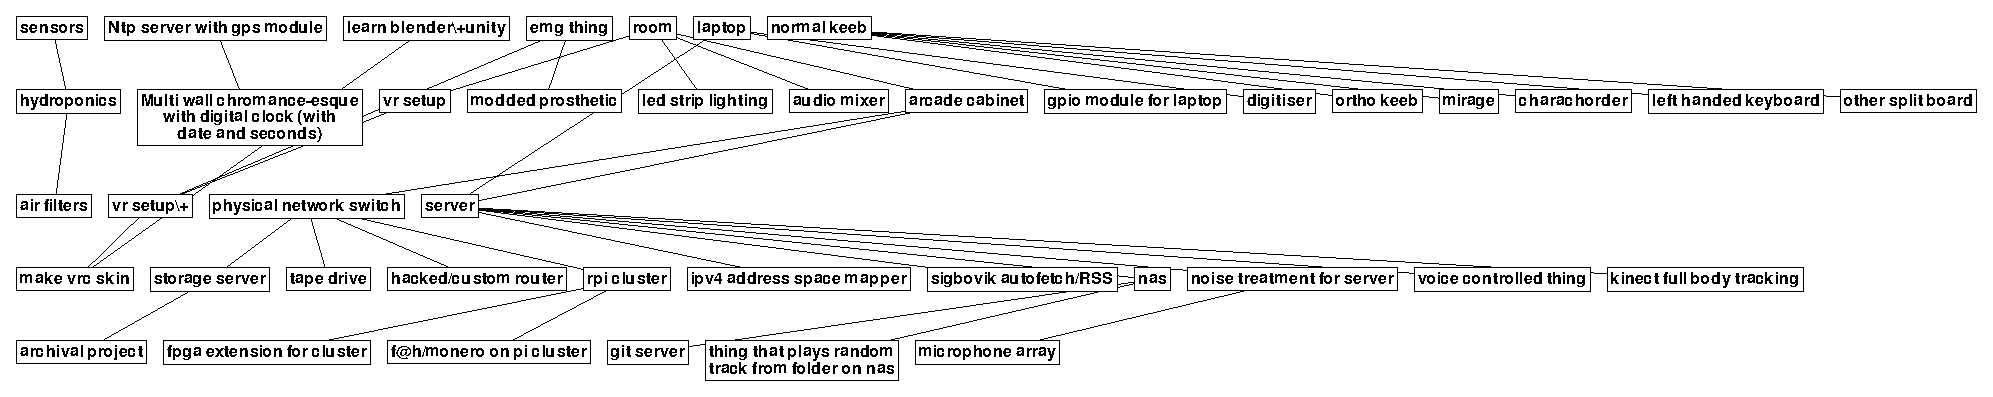
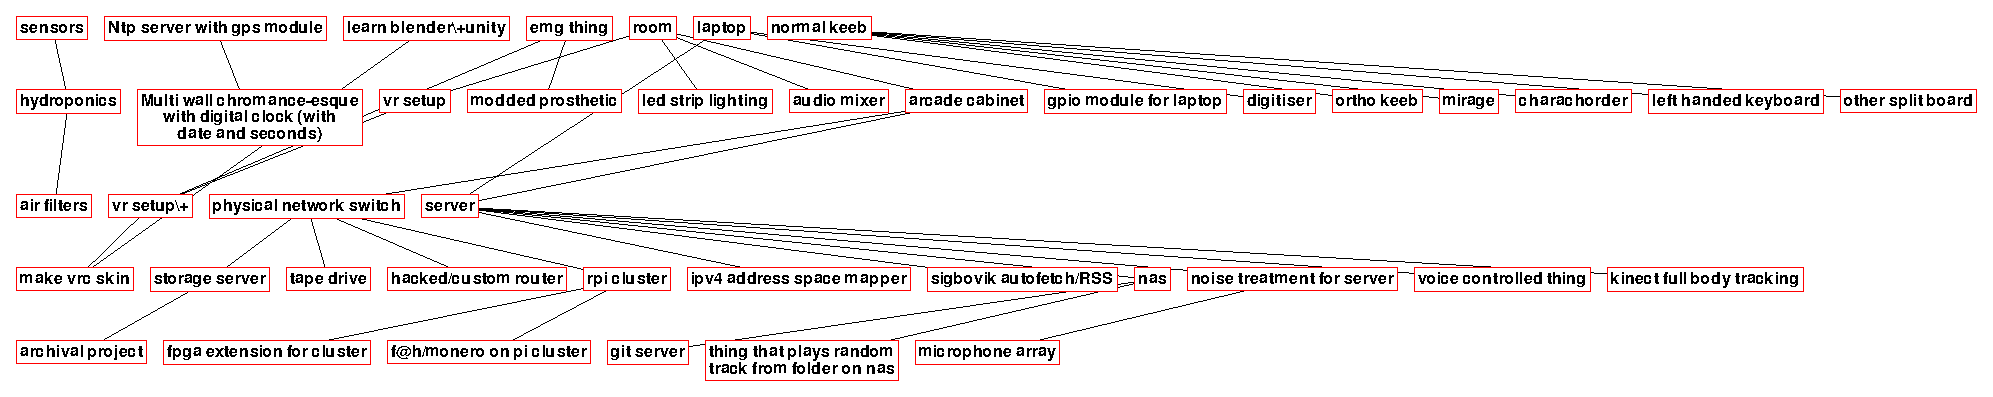
Split rendering process into 2 stages (per-node and per-graph)

diff --git a/core/Node.py b/core/Node.py
@@ -9,37 +9,50 @@ class Node:
     """Stores all the information for a single node; name, description, status,
     dependencies, dependants, position, size, etc."""
 
-    def __init__(self, name: str, description: str, status: str, font: pygame.font.Font):
+    name: str
+    description: str
+    status: str
+    dependencies: set[Node]
+    dependants: set[Node]
+    text_surf: pygame.Surface
+    position_x: int
+    position_y: int
+    width: int
+    height: int
+
+    def __init__(self, name: str, description: str, status: str):
         # Strings
-        self.name = name  # The project's name, shown in the render
-        self.description = description  # A brief description of this project
-        self.status = status  # Current status of this project
+        self.name = self.unescape(name)
+        self.description = self.unescape(description)
+        self.status = self.unescape(status)
         # Links
-        self.dependencies = set()  # Nodes which 'self' has as dependencies
         # TODO: Do we really need to store dependant nodes?
+        self.dependencies = set()  # Nodes which 'self' has as dependencies
         self.dependants = set()  # Nodes which have 'self' as a dependency
-        # Pre-render text surface (Surface size used as node size)
+
+    @staticmethod
+    def unescape(s: str) -> str:
+        # Source: https://thewebdev.info/2022/04/14/how-to-un-escape-a-backslash-escaped-string-with-python/
+        return s.encode('raw_unicode_escape').decode('unicode_escape')
+
+    def pre_render(self, font: pygame.font.Font):
         chars_per_line = 28
-        self.text_surf = DrawingUtils.draw_text(name, chars_per_line, font, None, (0, 0))
+        self.text_surf = DrawingUtils.draw_text(self.name, chars_per_line, font, None, (0, 0))
         width, height = self.text_surf.get_size()
         oversize = 8
         self.width = width + oversize
         self.height = height + oversize
-        self.position_x = 0
-        self.position_y = 0
 
-    def draw_node(self, surface: pygame.Surface, font: pygame.font.Font, node_thickness: int):
+    def draw_node(self, surface: pygame.Surface, node_thickness: int) -> None:
         """Draws the node to a PyGame surface object"""
 
-        # Find bounding box
+        # Draw node outline
+        node_colour = (255, 0, 0)
         pos_x = self.position_x - self.width / 2
         pos_y = self.position_y - self.height / 2
         bounding_box = pygame.Rect(pos_x, pos_y, self.width, self.height)
-
-        # Draw node outline
-        ring_color = (0, 0, 0)
         pygame.draw.rect(surface, (255, 255, 255), bounding_box, 0)
-        pygame.draw.rect(surface, ring_color, bounding_box, node_thickness)
+        pygame.draw.rect(surface, node_colour, bounding_box, node_thickness)
 
         # Draw text
         width, height = self.text_surf.get_size()
@@ -52,6 +65,7 @@ class Node:
         return all((dep.status == 'completed') for dep in self.dependencies)
 
     def __repr__(self):
+        # TODO: Do we really need __repr__?
         pos_data = "position_x={}, position_y={}, width={}, height={}".format(
                 self.position_x, self.position_y, self.width, self.height)
         return "Node.Node(name={}, description={}, status={}, dependencies={}, {})".format(

diff --git a/core/Graph.py b/core/Graph.py
@@ -2,16 +2,17 @@ from __future__ import annotations
 from typing import TextIO
 
 from core.Node import Node
+from core.Colours import parse_colour
 
 import json
 import pygame
 
 
 class Graph:
-    """Stores a set of nodes, and a block of raw metadata (if loaded from a JSON file)"""
+    """Stores a set of nodes, and colour information (if loaded from a JSON file)"""
 
     nodes: list[Node] = []
-    metadata: dict = {}
+    colours: dict[str, tuple[float, float, float]] = {}
 
     def __init__(self, file: str | TextIO, font: pygame.font.Font):
         if file:
@@ -24,44 +25,10 @@ class Graph:
                 data = json.load(open(file, 'r', encoding='utf-8'))
 
             self.init_nodes(data['nodes'], font)
-            self.colours = self.parse_colours(data["colours"])
-            self.metadata = data.copy()
-            self.metadata.pop('nodes')
-
-    def parse_colours(self, colours: dict) -> dict:
-
-        out = {}
-        for key, value in colours.items():
-            out[key] = self.parse_colour(value)
-        return out
-
-    def parse_colour(self, colour: str) -> tuple:
-        if colour in pygame.colordict.THECOLORS:
-            return pygame.colordict.THECOLORS[colour]
-        elif colour.lower().startswith("rgb("):
-            return self.from_rgb(colour)
-        elif colour.lower().startswith("hsv("):
-            return self.from_hsv(colour)
-        elif len(colour) in (6, 7):
-            return self.from_hex(colour)
-
-    @staticmethod
-    def from_rgb(colour: str) -> tuple:
-        as_str = colour[4:-1].split(",")
-        return tuple(int(i) for i in as_str)
-
-    @staticmethod
-    def from_hsv(colour: str) -> tuple:
-        as_str = colour[4:-1].split(",")
-        temp = pygame.Color((0, 0, 0))
-        temp.hsva = [int(i) for i in as_str]
-        return temp[0:3]
-
-    @staticmethod
-    def from_hex(colour: str) -> tuple:
-        if len(colour) == 7:
-            colour = colour[1:]
-        return int(colour[0:2], 16), int(colour[2:4], 16), int(colour[4:6], 16)
+            self.colours = {
+                key: parse_colour(value)
+                for key, value in data.get('colours', []).items()
+            }
 
     def init_nodes(self, data: dict, font: pygame.font.Font) -> None:
         """Set up node and connection data from a dict (loaded from project-list JSON file)"""
@@ -70,7 +37,8 @@ class Graph:
         for node_name, node in data.items():
             description = node.get('description', '')
             status = node.get('status', '')
-            n = Node(name=node_name, description=description, status=status, font=font)
+            n = Node(node_name, description, status)
+            n.pre_render(font)
             self.add_node(n)
 
         # Check node dependencies

diff --git a/core/Colours.py b/core/Colours.py
@@ -1,0 +1,34 @@
+import pygame
+
+
+# TODO: Fix type-checking for colours
+Colour = tuple[float, float, float]
+
+
+def from_rgb(colour: str) -> tuple:
+    as_str = colour[4:-1].split(",")
+    return tuple(int(i) for i in as_str)
+
+
+def from_hsv(colour: str) -> tuple:
+    as_str = colour[4:-1].split(",")
+    temp = pygame.Color((0, 0, 0))
+    temp.hsva = [int(i) for i in as_str]
+    return temp[0:3]
+
+
+def from_hex(colour: str) -> tuple:
+    if len(colour) == 7:
+        colour = colour[1:]
+    return int(colour[0:2], 16), int(colour[2:4], 16), int(colour[4:6], 16)
+
+
+def parse_colour(colour: str) -> tuple:
+    if colour in pygame.colordict.THECOLORS:
+        return pygame.colordict.THECOLORS[colour]
+    elif colour.lower().startswith("rgb("):
+        return from_rgb(colour)
+    elif colour.lower().startswith("hsv("):
+        return from_hsv(colour)
+    elif len(colour) in (6, 7):
+        return from_hex(colour)

diff --git a/core/Renderer.py b/core/Renderer.py
@@ -33,7 +33,7 @@ class Renderer:
 
         # Draw nodes
         for node in graph.nodes:
-            node.draw_node(self.surface, self.font, self.node_thickness)
+            node.draw_node(self.surface, self.node_thickness)
 
     def show(self, surface: pygame.Surface) -> None:
         """Blits the renderer surface onto another surface"""
